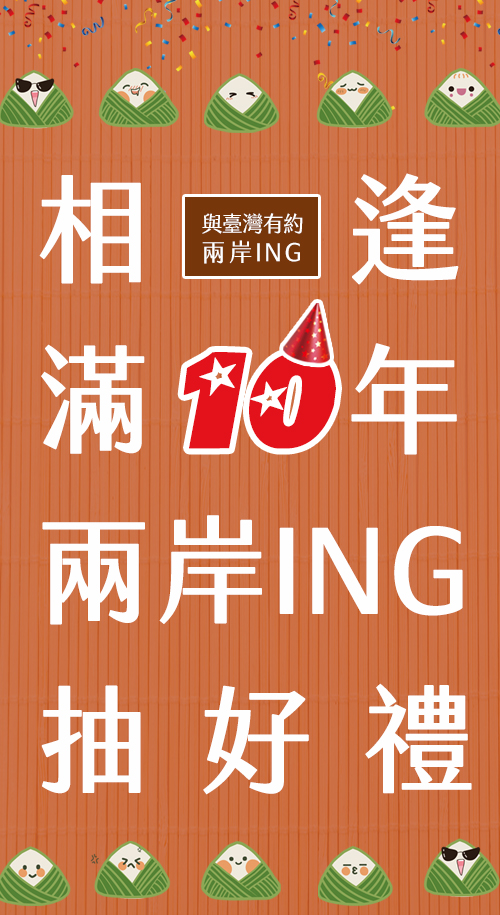
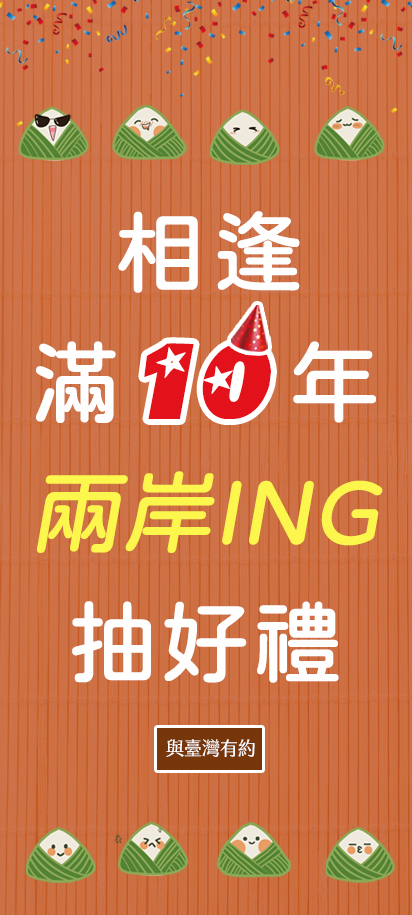
Fix img

diff --git a/components/Form.vue b/components/Form.vue
@@ -12,7 +12,7 @@
                 <li class="pb-4">5月舉行的七大工業國集團(G7)領袖高峰會，輪值主席國日本的首相岸田文雄指出，這次峰會再度確認台海和平穩定的重要性。而這次G7峰會是在那裡舉行？ </li>
                 <li>今年的亞太經濟合作會議(APEC)由美國主辦，APEC貿易部長會議5月下旬在美國底特律舉辦。而今年11月的APEC領袖峰會將在哪個城市舉行？ </li>
             </ul>
-            <div class="selection:text-yellow-300 selection:bg-yellow-700 pt-8"><span class="bg-yellow-300">想要參加活動的朋友，只要一句話寫出收聽</span><span class="text-green-800 bg-yellow-300 font-bold">「兩岸ING」</span><span class="bg-yellow-300">節目的感想，並答對其中一個新聞時事選擇題(點選以下兩個表單其中之一作答)，就有機會抽中精美好禮。</span></div>
+            <div class="selection:text-yellow-300 selection:bg-yellow-700 pt-8 pb-4"><span class="bg-yellow-300">想要參加活動的朋友，只要一句話寫出收聽</span><span class="text-green-800 bg-yellow-300 font-bold">「兩岸ING」</span><span class="bg-yellow-300">節目的感想，並答對其中一個新聞時事選擇題(點選以下兩個表單其中之一作答)，就有機會抽中精美好禮。</span></div>
             <span class="bg-yellow-300"><span class="text-green-800 font-bold">抽獎日期：</span>在活動結束後十天內於<span class="text-green-800 font-bold">「兩岸ING」</span>節目中公開進行。</span>
         </div>
     </div>
@@ -37,14 +37,14 @@
     <div class="flex flex-col md:flex-row lg:px-64 pb-8 justify-center text-rti_ing_white">
         <div class="w-auto md:w-1/2 lg:w-1/6 lg:mr-20">
             <img src="../assets/images/backbag_1500_1800.png" alt="">
-            <div class="text-center text-xl">
-                <p class=""><span class="text-green-800">《特獎》</span>共五名，各獲得一個<span class="text-green-800">台灣製</span>多功能運動<span class="text-green-800">背包</span>。</p>
+            <div class="text-center text-2xl">
+                <p class=""><span class="text-green-800 font-bold">《特獎》</span>共五名，各獲得一個<span class="text-green-800 font-bold">台灣製</span>多功能運動<span class="text-green-800">背包</span>。</p>
             </div>
         </div>
         <div class="w-auto md:w-1/2 lg:w-1/6 lg:mr-20">
             <img src="../assets/images/Sjacket_1500_1800.png" alt="">
-            <div class="text-center text-xl">
-                <p><span class="text-green-800">《頭獎》</span>共五名，各獲得一件<span class="text-green-800">台灣製</span>休閒<span class="text-green-800">機能衣</span>。</p>
+            <div class="text-center text-2xl">
+                <p><span class="text-green-800 font-bold">《頭獎》</span>共五名，各獲得一件<span class="text-green-800 font-bold">台灣製</span>休閒<span class="text-green-800">機能衣</span>。</p>
             </div>
         </div>
        </div>

diff --git a/components/Content.vue b/components/Content.vue
@@ -1,5 +1,5 @@
 <template>
-    <div class="flex text-2xl md:flex-wrap lg:text-4xl  bg-rti_ing_green gap-8 p-16 px-8 sm:px-16 lg:px-64">
+    <div class="flex flex-col text-2xl md:flex-wrap lg:text-4xl  bg-rti_ing_green gap-8 p-16 px-8 sm:px-16 lg:px-64">
         <div class=" text-rti_ing_white">相逢自是有緣，自2013年開播至今的央廣<a href="https://www.rti.org.tw/radio/programView/id/788"><span class="text-green-800 font-bold">「兩岸ING」</span></a>節目，為了感謝您長期的收聽與支持，在端午節前後特別舉辦<span class="text-red-500 font-bold">「相逢滿十年  兩岸ING抽好禮」</span>活動。
         </div>
         <div class="text-rti_ing_white">
